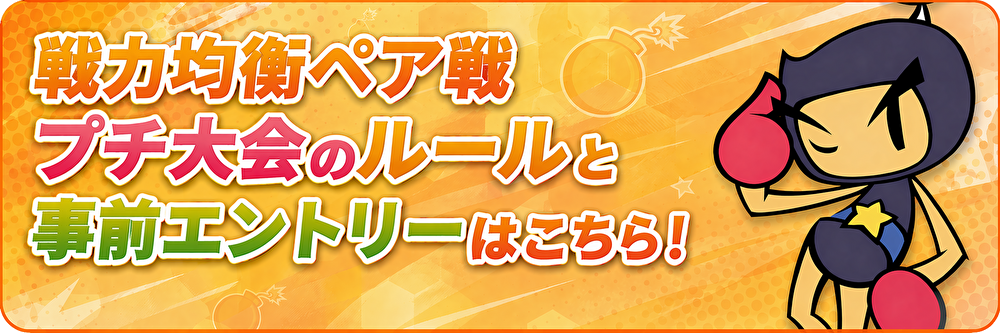
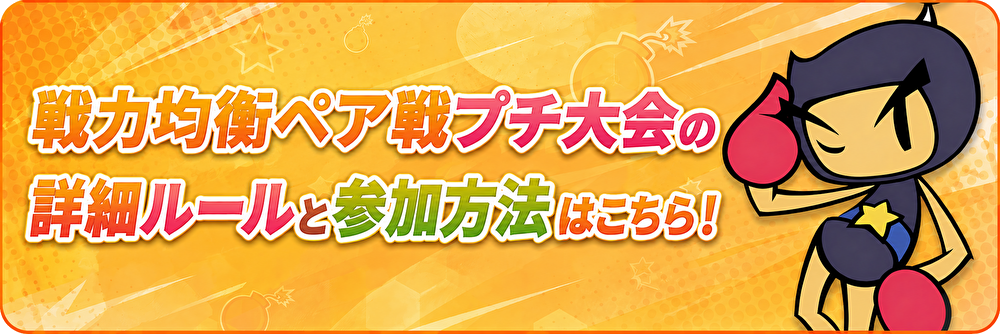
Update combo previews and interviews

diff --git a/feedback.html b/feedback.html
@@ -488,6 +488,141 @@
                         </details>
 
 
+                        <details class="feedback-interview-details">
+                            <summary class="feedback-interview-summary">
+                                <span class="feedback-summary-label">インタビュイー</span>
+                                <span class="feedback-summary-name">あゆむさん</span>
+                            </summary>
+
+                            <article class="feedback-interview-card" id="feedback-interview-004">
+                                <div class="feedback-qa-list">
+
+                                    <section class="feedback-qa-item">
+                                        <h3 class="feedback-question">
+                                            <span class="feedback-question-number">Q1</span>
+                                            <span class="feedback-question-text">まずは自己紹介をお願いします。</span>
+                                        </h3>
+                                        <p class="feedback-answer">
+                                            <span class="feedback-answer-label">A1</span>
+                                            <span class="feedback-answer-text">SBROから本格的に始めました。昔は誘爆マンだったけど、最近は包囲が好き。</span>
+                                        </p>
+                                    </section>
+
+                                    <section class="feedback-qa-item">
+                                        <h3 class="feedback-question">
+                                            <span class="feedback-question-number">Q2</span>
+                                            <span class="feedback-question-text">SBR2交流会に参加したきっかけを教えてください。</span>
+                                        </h3>
+                                        <p class="feedback-answer">
+                                            <span class="feedback-answer-label">A2</span>
+                                            <span class="feedback-answer-text">配信見つけたから。</span>
+                                        </p>
+                                    </section>
+
+                                    <section class="feedback-qa-item">
+                                        <h3 class="feedback-question">
+                                            <span class="feedback-question-number">Q3</span>
+                                            <span class="feedback-question-text">初めて参加したときの印象はどうでしたか？</span>
+                                        </h3>
+                                        <p class="feedback-answer">
+                                            <span class="feedback-answer-label">A3</span>
+                                            <span class="feedback-answer-text">沢山チーム戦できて楽しい。</span>
+                                        </p>
+                                    </section>
+
+                                    <section class="feedback-qa-item">
+                                        <h3 class="feedback-question">
+                                            <span class="feedback-question-number">Q4</span>
+                                            <span class="feedback-question-text">自分のプレイスタイルを一言で表すと？</span>
+                                        </h3>
+                                        <p class="feedback-answer">
+                                            <span class="feedback-answer-label">A4</span>
+                                            <span class="feedback-answer-text">誘爆包囲系</span>
+                                        </p>
+                                    </section>
+
+                                    <section class="feedback-qa-item">
+                                        <h3 class="feedback-question">
+                                            <span class="feedback-question-number">Q5</span>
+                                            <span class="feedback-question-text">交流会で好きなところはどこですか？</span>
+                                        </h3>
+                                        <p class="feedback-answer">
+                                            <span class="feedback-answer-label">A5</span>
+                                            <span class="feedback-answer-text">チーム戦たくさんできるところ。</span>
+                                        </p>
+                                    </section>
+
+                                    <section class="feedback-qa-item">
+                                        <h3 class="feedback-question">
+                                            <span class="feedback-question-number">Q6</span>
+                                            <span class="feedback-question-text">毎セットチームが変わるランダムチーム戦について、どう感じていますか？</span>
+                                        </h3>
+                                        <p class="feedback-answer">
+                                            <span class="feedback-answer-label">A6</span>
+                                            <span class="feedback-answer-text">偏りすぎ！</span>
+                                        </p>
+                                    </section>
+
+                                    <section class="feedback-qa-item">
+                                        <h3 class="feedback-question">
+                                            <span class="feedback-question-number">Q7</span>
+                                            <span class="feedback-question-text">交流会で印象に残っている名場面・珍場面はありますか？</span>
+                                        </h3>
+                                        <p class="feedback-answer">
+                                            <span class="feedback-answer-label">A7</span>
+                                            <span class="feedback-answer-text">たくさんあったと思うけど思い出せない。</span>
+                                        </p>
+                                    </section>
+
+                                    <section class="feedback-qa-item">
+                                        <h3 class="feedback-question">
+                                            <span class="feedback-question-number">Q8</span>
+                                            <span class="feedback-question-text">好きな名言・迷言、または用語集入りしてほしい言葉はありますか？</span>
+                                        </h3>
+                                        <p class="feedback-answer">
+                                            <span class="feedback-answer-label">A8</span>
+                                            <span class="feedback-answer-text">黃ボンより黄ボン（ビル）</span>
+                                        </p>
+                                    </section>
+
+                                    <section class="feedback-qa-item">
+                                        <h3 class="feedback-question">
+                                            <span class="feedback-question-number">Q9</span>
+                                            <span class="feedback-question-text">長時間配信になりがちな交流会について、正直どう思っていますか？</span>
+                                        </h3>
+                                        <p class="feedback-answer">
+                                            <span class="feedback-answer-label">A9</span>
+                                            <span class="feedback-answer-text">沢山遊べてうれしい。</span>
+                                        </p>
+                                    </section>
+
+                                    <section class="feedback-qa-item">
+                                        <h3 class="feedback-question">
+                                            <span class="feedback-question-number">Q10</span>
+                                            <span class="feedback-question-text">これから参加してみたい人へ一言お願いします。</span>
+                                        </h3>
+                                        <p class="feedback-answer">
+                                            <span class="feedback-answer-label">A10</span>
+                                            <span class="feedback-answer-text">ポイントゲッターは譲ります。</span>
+                                        </p>
+                                    </section>
+
+                                    <section class="feedback-qa-item feedback-qa-final">
+                                        <h3 class="feedback-question">
+                                            <span class="feedback-question-number">Q11</span>
+                                            <span class="feedback-question-text">最後に、あなたにとってSBR2交流会とは？</span>
+                                        </h3>
+                                        <p class="feedback-answer">
+                                            <span class="feedback-answer-label">A11</span>
+                                            <span class="feedback-answer-text">チーム戦楽しい！</span>
+                                        </p>
+                                    </section>
+
+                                </div>
+                            </article>
+                        </details>
+
+
                         <div class="feedback-note-box">
                             <h2 class="feedback-note-title">今後も随時追加予定です</h2>
                         </div>

diff --git a/pair.html b/pair.html
@@ -82,7 +82,7 @@
 
                     <!-- 概要 -->
                     <section class="pair-intro-box">
-                        <h2 class="pair-section-title">交流会前プチペア戦大会概要</h2>
+                        <h2 class="pair-section-title">プチ大会概要</h2>
 
                         <p>
                             通常のSBR2交流会の前に行われるギンギンパワー4人部屋での2対2のペア戦大会となります。
@@ -104,27 +104,28 @@
                         </p>
 
                         <p>
-                            参加ペア数が4未満の場合はプチ大会は取り止め、そのままいつも通り通常のSBR2交流会が始まります。
+                            参加ペア数が4未満(7名以下)の場合はプチ大会は取り止め、そのままいつも通り通常のSBR2交流会が始まります。
                             過去の戦力均衡ペア戦プチ大会の結果はフッターにある交流会データまとめのリンクから確認出来ます。
                         </p>
                     </section>
 
-                    <!-- 事前エントリー -->
+                    <!-- 参加方法 -->
                     <section class="pair-entry-box">
-                        <h2 class="pair-section-title">事前エントリーについて</h2>
+                        <h2 class="pair-section-title">参加方法</h2>
 
                         <p>
-                            「当日の短い時間の募集(14:00～14:30)だけではあまりにも募集時間が短すぎるのでは？」「事前にエントリーをいただければ
-                            ペア名をあらかじめ考え付きやすいのでは？」という考えからこの事前エントリーフォームは生まれました。
+                            交流会配信開始から30分間(大抵は14:00～14:30の間)にライブ配信からルーム番号を確認しルームに入室してください。
+                            チャットコメントが出来ない方は配信主が口頭にて参加表明意思の確認を取らせていただきますのでゲーム内チャットにて口頭で指定した吹き出しセリフを返してください。
+
                         </p>
 
-                        <p>
+                        <!-- <p>
                             事前エントリーは必須ではありませんが、参加予定の方はこちらに入力していただけると上記の件により運営側は準備がしやすくなり大変助かります。
                             急用などで参加できなくなった場合でも、キャンセル連絡は不要です。
                             参加可能な方は14:00～14:30の間に配信中のルームへ入室していただければ大丈夫です。
-                        </p>
+                        </p>     -->
 
-                        <div class="pair-entry-button-wrap">
+                        <!-- <div class="pair-entry-button-wrap">
                             <a href="#" class="pair-entry-button">
                                 事前エントリーフォームはこちら
                             </a>
@@ -132,7 +133,7 @@
 
                         <p class="pair-entry-note">
                             <h2><span class="pair-emphasis-red">まだフォームは完成していません</span></h2>
-                        </p>
+                        </p> -->
                     </section>
 
                     <!-- 基本ルール -->

diff --git a/faq.html b/faq.html
@@ -146,9 +146,8 @@
                                 <div class="faq-answer">
                                     <span class="faq-a-badge">A</span>
                                     <p>
-                                        事前エントリーは必須ではありませんが、戦力均衡ペア戦プチ大会のルールページに
-                                        事前エントリーのフォームがございますので、そちらで事前のエントリーが可能です。
-                                        事前エントリーをしていただければ運営する側としても大変助かります！
+                                        事前エントリーは2026/06/05現在、特にフォーム等を設けているわけではありませんので、
+                                        ペア戦プチ大会への参加の際はライブ配信開始の30分間(大抵は14:00～14:30)にルームへ入室していただければ大丈夫です。
                                     </p>
                                 </div>
                             </div>
@@ -157,14 +156,15 @@
                         <details class="faq-item">
                             <summary class="faq-question">
                                 <span class="faq-q-badge">Q</span>
-                                <span class="faq-question-text">事前エントリーしたけど急用が出来て参加出来なくなってしまいました！キャンセルは必要ですか？</span>
+                                <span class="faq-question-text">エントリーしたけど急用が出来て参加出来なくなってしまいました！</span>
                             </summary>
                             <div class="faq-answer-wrap">
                                 <div class="faq-answer">
                                     <span class="faq-a-badge">A</span>
                                     <p>
-                                        あらかじめペアが決定しているというわけではありませんのでキャンセルは必要ございません。
-                                        主催者への連絡等も不要です。リアルの用事を優先してください。
+                                        ライブ配信開始から30分間経過するまではペアが決定しませんのでそれまでは入退室自由です。
+                                        大会開始後にどうしても抜けなければいけなくなってしまっても問題ありません。リアルの用事を優先してください。
+                                        その場合配信主がどうにかします。
                                     </p>
                                 </div>
                             </div>

diff --git a/sitemap.html b/sitemap.html
@@ -105,7 +105,7 @@
                                 <span class="sitemap-name">戦力均衡ペア戦プチ大会</span>
                             </div>
                             <p class="sitemap-description">
-                                ペア戦プチ大会のルールや事前エントリーについて説明しているページです。
+                                ペア戦プチ大会のルールや参加方法について説明しているページです。
                             </p>
                         </a>
 
